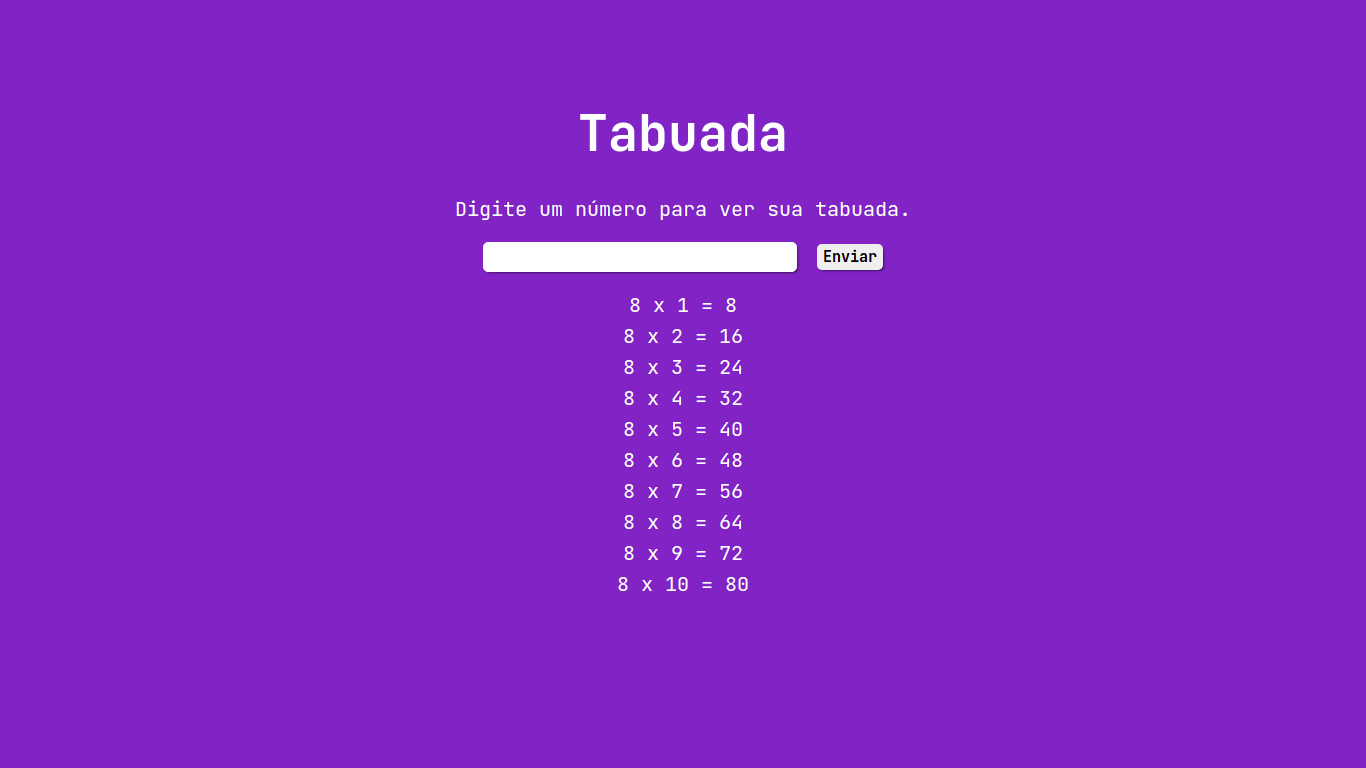
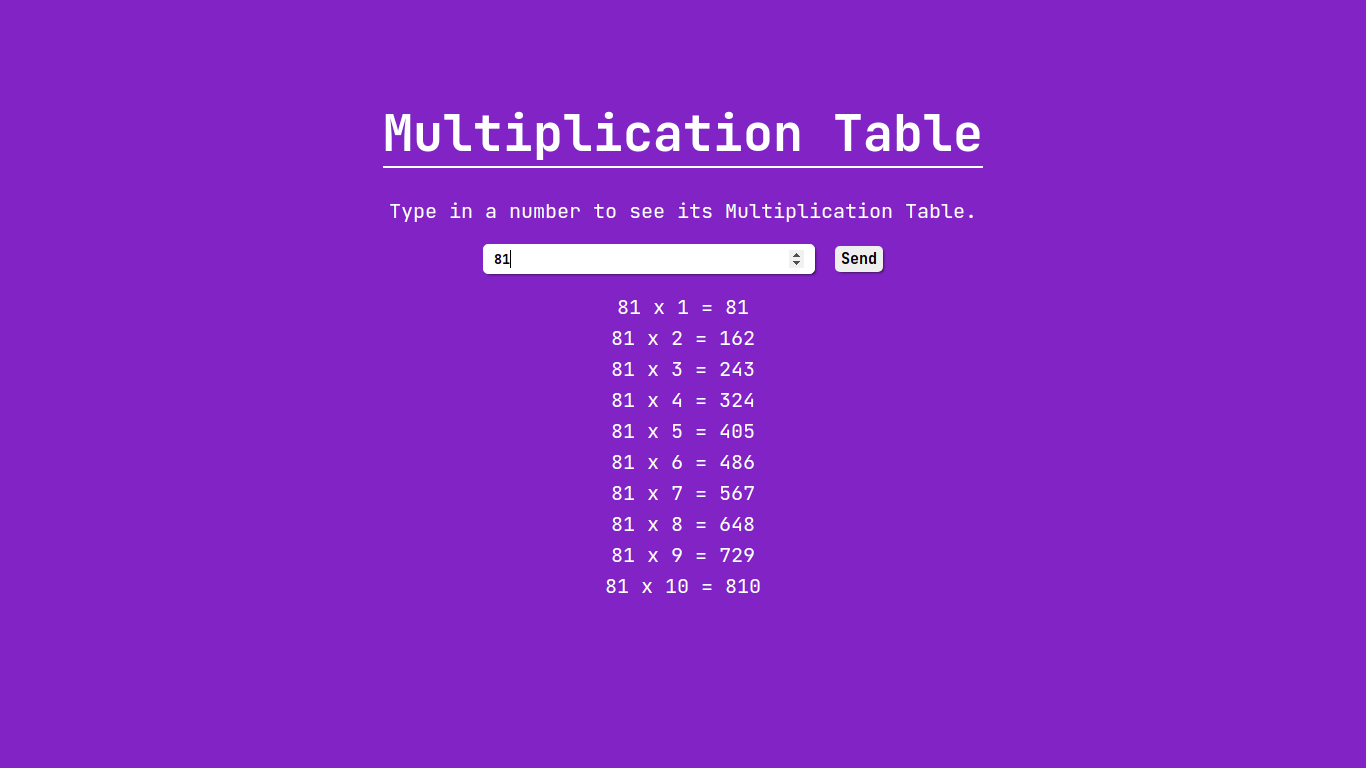
refactoring folders

diff --git a/src/app.js b/src/app.js
@@ -1,0 +1,26 @@
+const form = document.querySelector('main form');
+const list = document.querySelector('main ul');
+
+function showTable(number) {
+  list.innerHTML = '';
+  let table = [];
+
+  for (let i = 1; i <= 10; i++) {
+    table.push(`${number} x ${i} = ${number * i}`);
+  }
+
+  table.forEach(item => {
+    const line = document.createElement('li');
+    const lineText = document.createTextNode(item);
+    line.append(lineText);
+
+    list.append(line);
+  });
+}
+
+form.addEventListener('submit', e => {
+  e.preventDefault();
+
+  const number = form.querySelector('input').value;
+  showTable(number);
+});

diff --git a/src/style.css b/src/style.css
@@ -32,9 +32,9 @@ h1 {
   margin-top: 100px;
   font-size: 50px;
   position: relative;
+  border-bottom: 2px solid white;
 }
 
-h1::after,
 p::after,
 li::after {
   content: '';
@@ -47,7 +47,6 @@ li::after {
   transition: width 0.2s ease-in-out;
 }
 
-h1:hover::after,
 p:hover::after,
 li:hover::after {
   width: 100%;

diff --git a/README.md b/README.md
@@ -1,24 +1,24 @@
 <p align="center">
-  <h3 align="center">Dev Finances</h3>
+  <h3 align="center">Math Multiplication Table</h3>
 
   <p align="center">
-    A simple website that takes care of finances!
+    A simple website that shows the multiplication table of a given number.
     <br />
-    <a href="https://github.com/LucFerSan/dev-finances-discover"><strong>Explore the docs »</strong></a>
+    <a href="https://github.com/LucFerSan/math-multiplication-table.git"><strong>Explore the docs »</strong></a>
     <br />
     <br />
     ·
-    <a href="https://github.com/LucFerSan/dev-finances-discover/issues">Report Bug</a>
+    <a href="https://github.com/LucFerSan/math-multiplication-table.git/issues">Report Bug</a>
     ·
-    <a href="https://github.com/LucFerSan/dev-finances-discover/issues">Request Feature</a>
+    <a href="https://github.com/LucFerSan/math-multiplication-table.git/issues">Request Feature</a>
   </p>
 </p>
 
 ## About The Project
 
-![Dev finances](.github/dashboard-dark.png)
+![Math Multiplication Table](.github/math-table.png)
 
-A responsive website, in which you can control incomes and expenses visually.
+A simple website that shows the multiplication table of a given number, made with simple html, css and vanilla javascript.
 
 ### Built With
 
@@ -30,20 +30,8 @@ A responsive website, in which you can control incomes and expenses visually.
 
 1. Clone the repo
    ```sh
-   git clone https://github.com/LucFerSan/dev-finances-discover.git
+   git clone https://github.com/LucFerSan/math-multiplication-table.git.git
    ```
-
-## Usage
-
-<p float="left">
-  <img src=".github/dashboard-dark.png" width="390" />
-  <img src=".github/dashboard.png" width="390" /> 
-</p>
-
-<p float="left">
-  <img src=".github/modal-dark.png" width="390" />
-  <img src=".github/modal.png" width="390" /> 
-</p>
 
 ## Contributing
 
@@ -63,9 +51,4 @@ Distributed under the MIT License. See `LICENSE` for more information.
 
 Lucas Fernandes - fernandes.lucas11@outlook.com
 
-Project Link: [https://github.com/LucFerSan/dev-finances-discover](https://github.com/LucFerSan/dev-finances-discover)
-
-### Special thanks to
-
-- [Mayk Brito](https://github.com/maykbrito)
-- [Rocketseat](https://github.com/Rocketseat)
+Project Link: [https://github.com/LucFerSan/math-multiplication-table.git](https://github.com/LucFerSan/math-multiplication-table.git)
